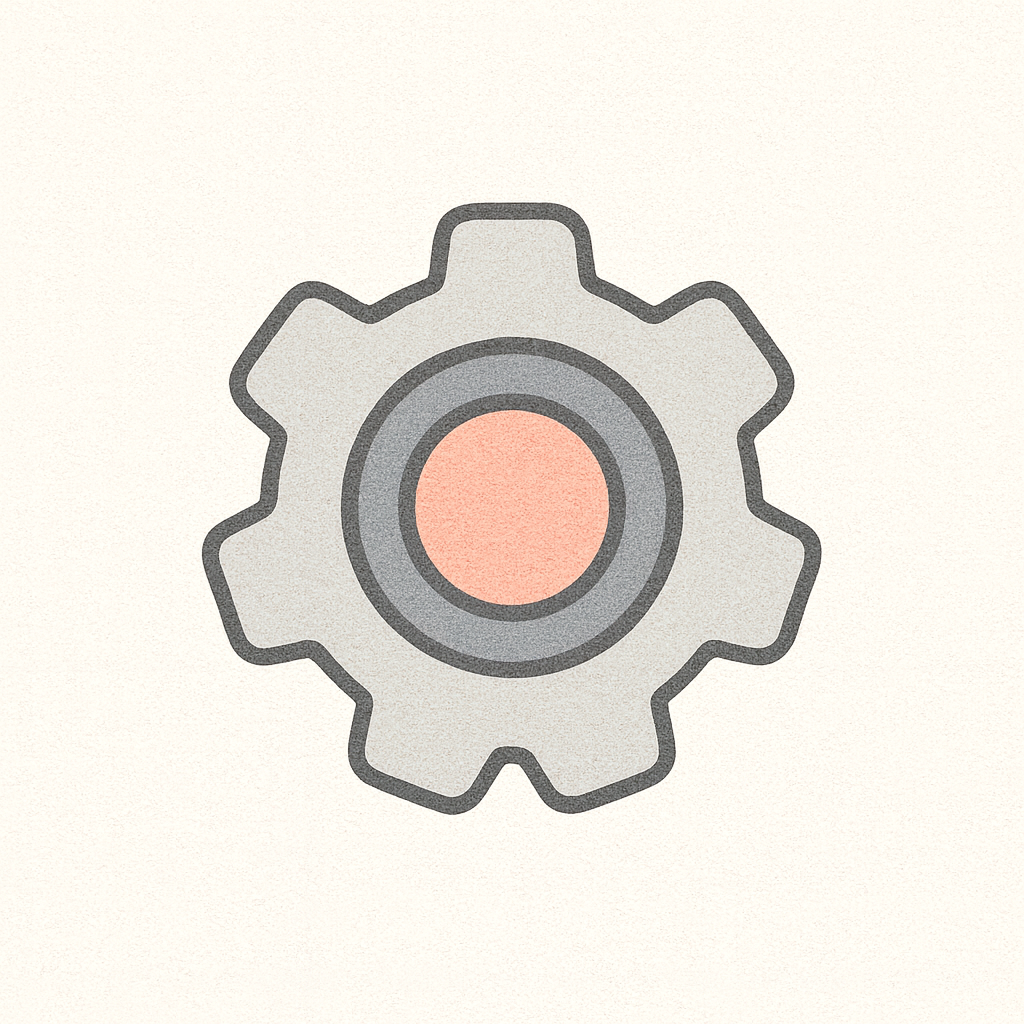
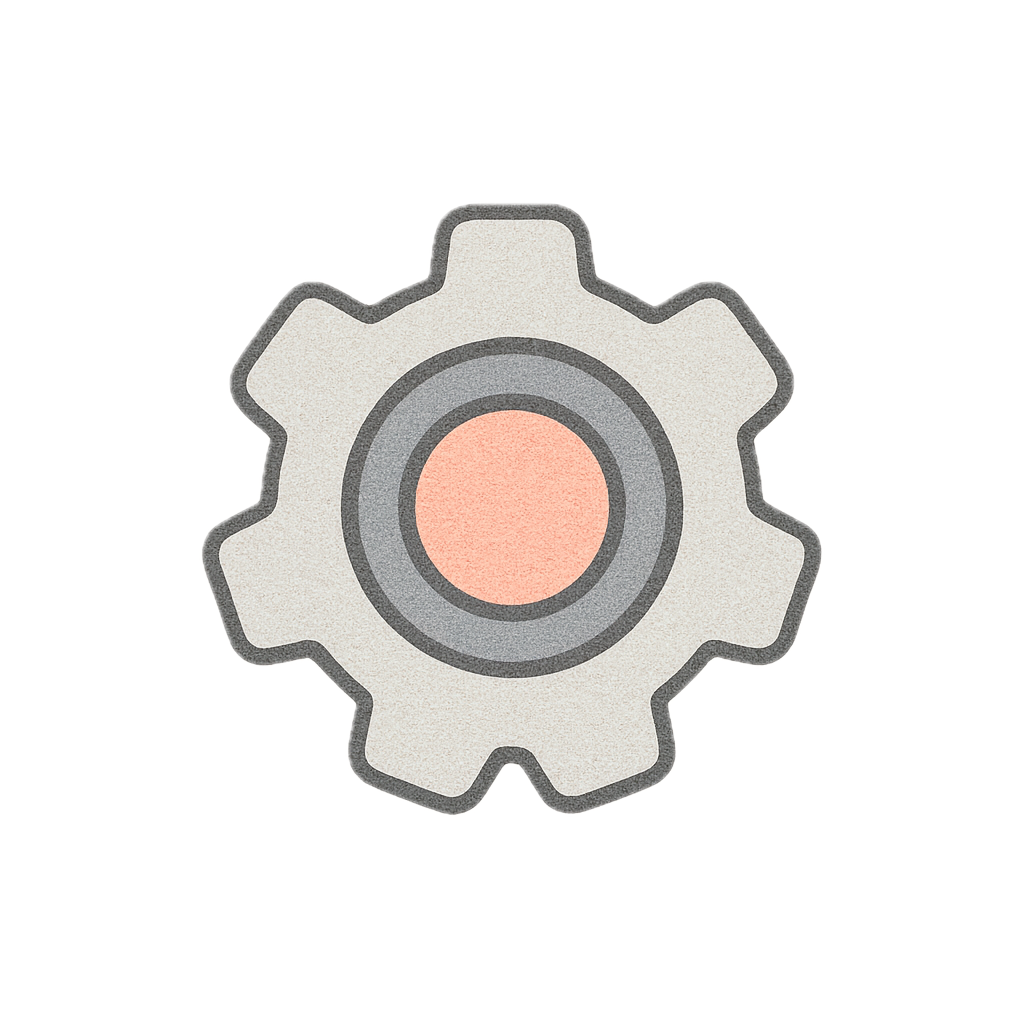
anda bien

diff --git a/app/(tabs)/_layout.tsx b/app/(tabs)/_layout.tsx
@@ -1,8 +1,11 @@
-import { Tabs } from 'expo-router';
+import { Tabs, usePathname, useRouter } from 'expo-router';
 import React from 'react';
-import { Image } from 'react-native';
+import { Image, Pressable } from 'react-native';
 
 export default function TabLayout() {
+  const router = useRouter();
+  const pathname = usePathname();
+
   const icons = {
     lapiz: require('../../assets/images/lapiz.png'),
     agenda: require('../../assets/images/agenda.png'),
@@ -13,74 +16,73 @@ export default function TabLayout() {
     <Tabs
       screenOptions={{
         headerShown: false,
-        tabBarShowLabel: true,
+        tabBarShowLabel: false,
         tabBarActiveTintColor: '#fff',
         tabBarInactiveTintColor: '#fcdedc',
         tabBarStyle: {
           backgroundColor: '#e0887f',
           borderTopWidth: 0,
-          height: 85, // 🔹 más alto para íconos grandes
-          paddingBottom: 12,
-          paddingTop: 8,
-          elevation: 0, // 🔹 sin sombra blanca
-          shadowOpacity: 0,
-        },
-        tabBarLabelStyle: {
-          fontWeight: '700',
-          fontSize: 14,
+          height: 80,
+          paddingTop: 0,
         },
       }}
     >
-
-      {/* 🟣 Izquierda - Lápiz */}
+      {/* 📝 Nueva tarea */}
       <Tabs.Screen
-        name="editar"
+        name="NuevaTarea"
         options={{
-          title: 'Editar',
           tabBarIcon: () => (
             <Image
               source={icons.lapiz}
-              style={{
-                width: 36,
-                height: 36,
-                resizeMode: 'contain',
-              }}
+              style={{ width: 60, height: 60, resizeMode: 'contain' }}
             />
           ),
         }}
       />
 
-      {/* 🔵 Centro - Agenda */}
+      {/* 📅 Botón central - Agenda / Home */}
       <Tabs.Screen
-        name="agenda"
+        name="index"
         options={{
-          title: 'Agenda',
-          tabBarIcon: () => (
-            <Image
-              source={icons.agenda}
-              style={{
-                width: 42,
-                height: 42,
-                resizeMode: 'contain',
+          tabBarButton: (props) => (
+            <Pressable
+              {...props}
+              onPress={() => {
+                if (pathname === '/(tabs)') {
+                  // Si estás en el home, ir a la agenda
+                  router.push('/Agenda');
+                } else {
+                  // Si estás en la agenda, volver al home
+                  router.push('/(tabs)');
+                }
               }}
-            />
+              style={{
+                alignItems: 'center',
+                justifyContent: 'center',
+                top: -10, // 🔹 un poquito más arriba
+              }}
+            >
+              <Image
+                source={icons.agenda}
+                style={{
+                  width: 78,
+                  height: 78,
+                  resizeMode: 'contain',
+                }}
+              />
+            </Pressable>
           ),
         }}
       />
 
-      {/* 🟢 Derecha - Configuración */}
+      {/* ⚙ Configuración */}
       <Tabs.Screen
         name="config"
         options={{
-          title: 'Config',
           tabBarIcon: () => (
             <Image
               source={icons.configuracion}
-              style={{
-                width: 36,
-                height: 36,
-                resizeMode: 'contain',
-              }}
+              style={{ width: 60, height: 60, resizeMode: 'contain' }}
             />
           ),
         }}

diff --git a/app/(tabs)/NuevaTarea.tsx b/app/(tabs)/NuevaTarea.tsx
@@ -1,0 +1,42 @@
+import React from 'react';
+import { Image, StyleSheet, Text, View } from 'react-native';
+
+export default function NuevaTarea() {
+  return (
+    <View style={styles.container}>
+      <Image
+        source={require('../../assets/images/lapiz.png')}
+        style={styles.icon}
+      />
+      <Text style={styles.title}>✏ Nueva Tarea</Text>
+      <Text style={styles.subtitle}>Acá vas a poder crear tus tareas personalizadas.</Text>
+    </View>
+  );
+}
+
+const styles = StyleSheet.create({
+  container: {
+    flex: 1,
+    backgroundColor: '#fff', // fondo blanco limpio
+    justifyContent: 'center',
+    alignItems: 'center',
+    padding: 20,
+  },
+  icon: {
+    width: 90,
+    height: 90,
+    marginBottom: 20,
+    resizeMode: 'contain',
+  },
+  title: {
+    fontSize: 26,
+    fontWeight: '800',
+    color: '#333',
+    marginBottom: 8,
+  },
+  subtitle: {
+    fontSize: 16,
+    color: '#777',
+    textAlign: 'center',
+  },
+});

diff --git a/app/(tabs)/config.tsx b/app/(tabs)/config.tsx
@@ -1,0 +1,32 @@
+import React from 'react';
+import { StyleSheet, Text, View } from 'react-native';
+
+export default function ConfigScreen() {
+  return (
+    <View style={styles.container}>
+      <Text style={styles.title}>⚙ Estás en Configuración</Text>
+      <Text style={styles.subtitle}>Próximamente podrás ajustar tus preferencias acá.</Text>
+    </View>
+  );
+}
+
+const styles = StyleSheet.create({
+  container: {
+    flex: 1,
+    backgroundColor: '#e0887f',
+    justifyContent: 'center',
+    alignItems: 'center',
+    padding: 20,
+  },
+  title: {
+    fontSize: 26,
+    fontWeight: '800',
+    color: '#fff',
+    marginBottom: 10,
+  },
+  subtitle: {
+    fontSize: 16,
+    color: '#fcdedc',
+    textAlign: 'center',
+  },
+});

diff --git a/app/Agenda.tsx b/app/Agenda.tsx
@@ -1,0 +1,14 @@
+import { StyleSheet, Text, View } from 'react-native';
+
+export default function Agenda() {
+  return (
+    <View style={styles.container}>
+      <Text style={styles.text}>📖 Estás en la Agenda</Text>
+    </View>
+  );
+}
+
+const styles = StyleSheet.create({
+  container: { flex: 1, backgroundColor: '#e0887f', justifyContent: 'center', alignItems: 'center' },
+  text: { fontSize: 24, fontWeight: 'bold' },
+});

diff --git a/app/(tabs)/index.tsx b/app/(tabs)/index.tsx
@@ -44,6 +44,7 @@ const styles = StyleSheet.create({
   container: {
     flex: 1,
     backgroundColor: '#e0887f', // 👈 ahora el fondo también pinta el notch
+    paddingBottom: 0,
   },
   pager: {
     flex: 1,
